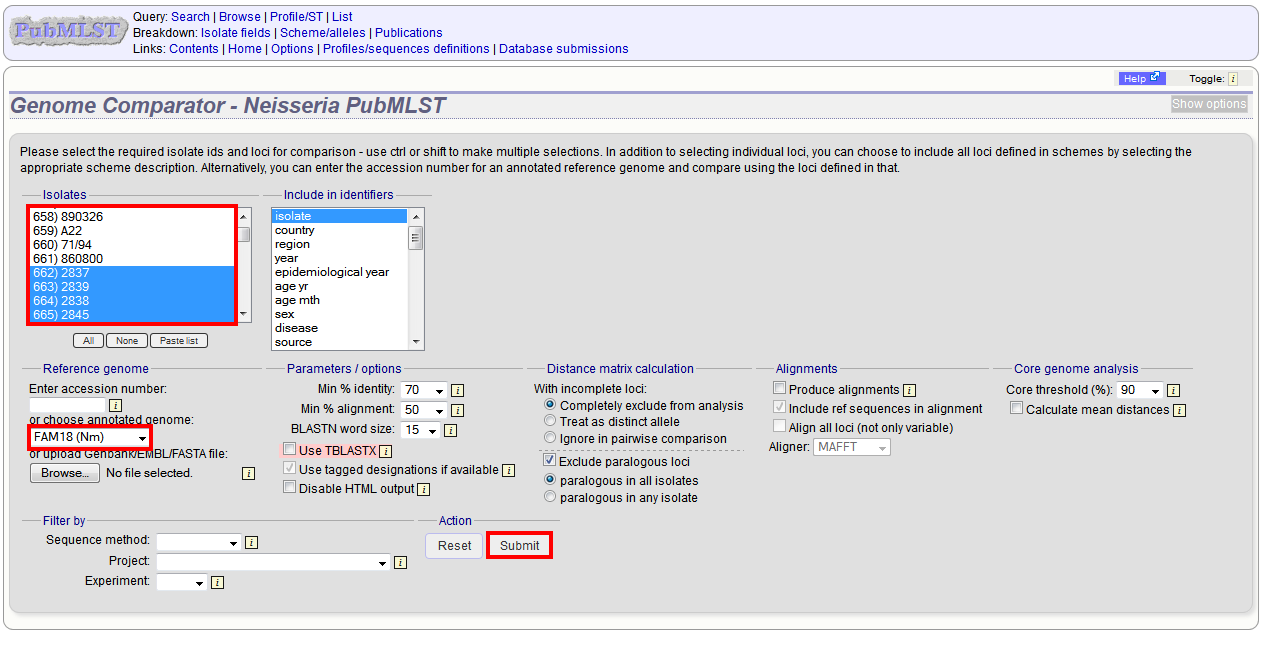
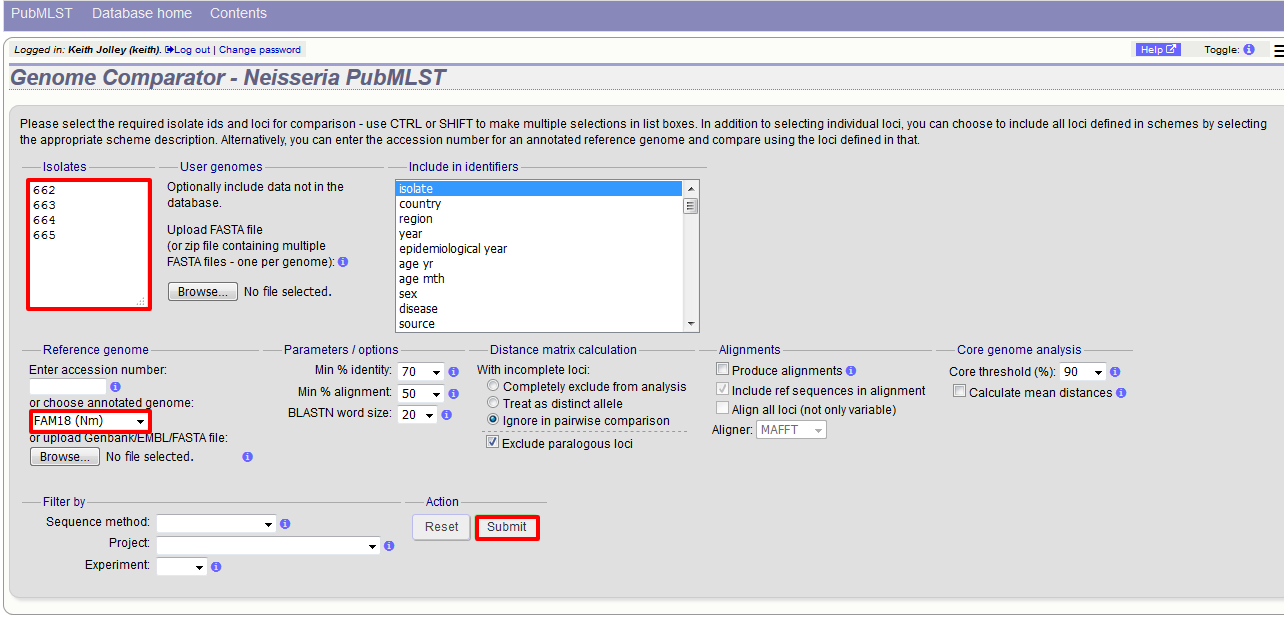
Update Genome Comparator screenshots.
Mention upload of user genomes.

diff --git a/data_analysis.rst b/data_analysis.rst
@@ -354,7 +354,11 @@ Comparator interface.
 
 Analysis using defined loci
 ===========================
-Select the isolate genomes that you wish to analyse and then either the loci 
+Select the isolate genomes that you wish to analyse. These will either be in 
+a dropdown list or, if there are too many in the database, a text input where
+a list can be entered. You can also upload your own genomes for analysis - 
+these should be either a single file in FASTA format (if you have just one 
+genome), or a zip file containing multiple FASTA files. Select either the loci 
 from the list or a set of schemes.  Press submit.
 
 .. image:: /images/data_analysis/genome_comparator3.png
